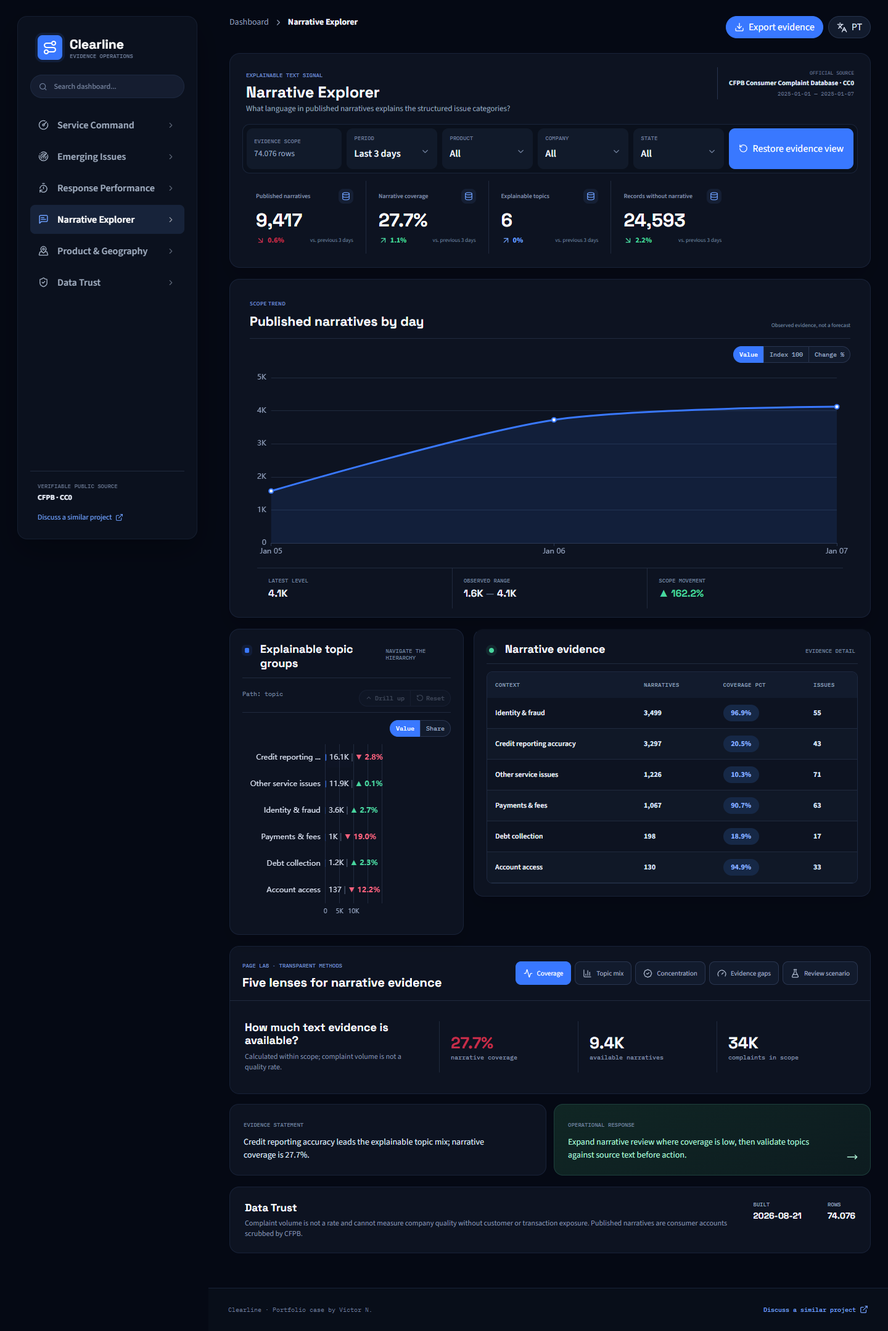
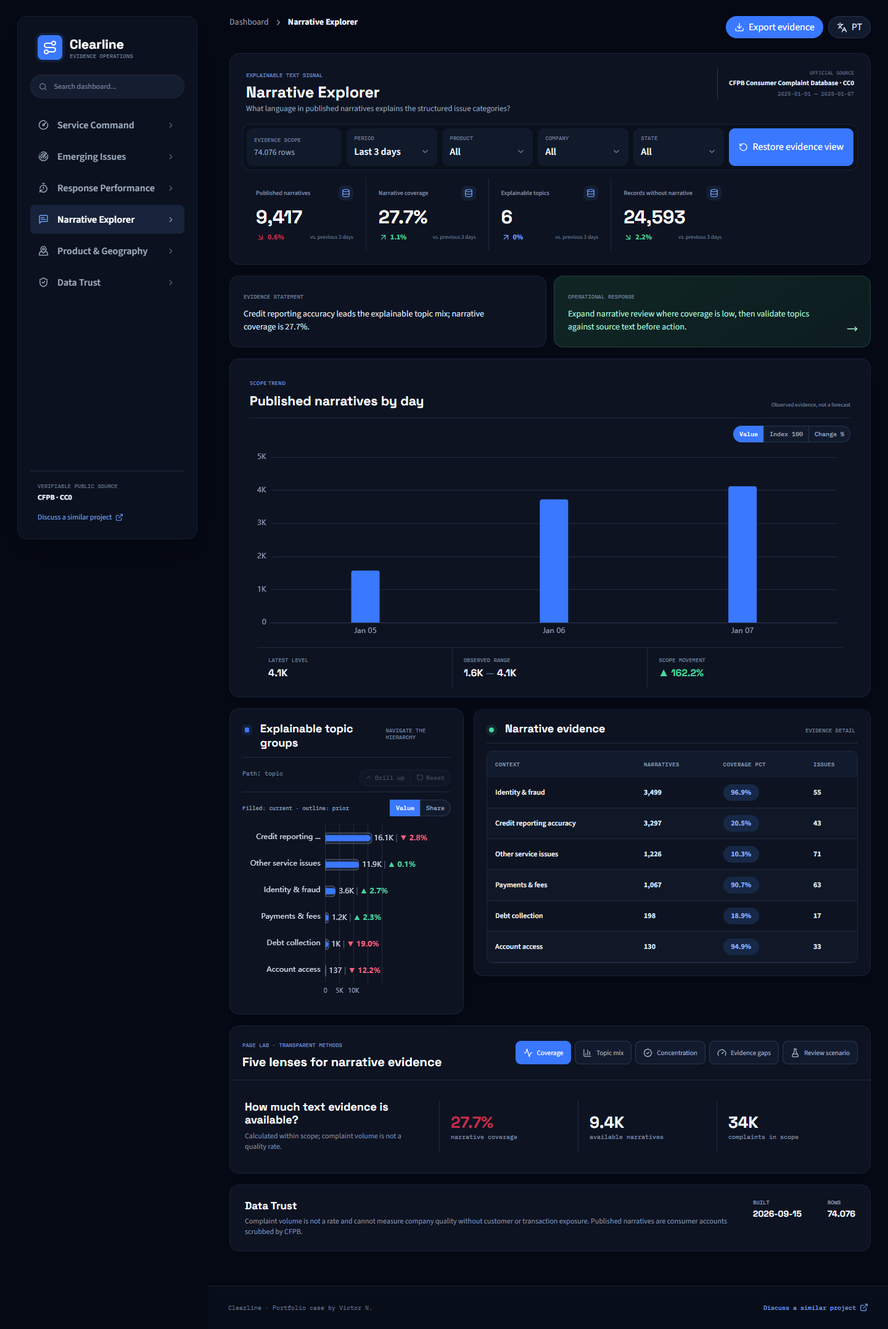
Improve triage storytelling and short-window visuals

diff --git a/src/components.tsx b/src/components.tsx
@@ -40,10 +40,11 @@ export function TrendChart({ data, lang, direction = 'neutral', valueFormat = 'n
   const minimum = rawValues.length ? Math.min(...rawValues) : 0
   const maximum = rawValues.length ? Math.max(...rawValues) : 0
   const movement = base ? (current - base) / Math.abs(base) : 0
+  const discrete = data.length <= 7
   const values = data.map((point, index) => mode === 'index' ? point.value / base * 100 : mode === 'change' ? (index ? (point.value - data[index - 1].value) / Math.abs(data[index - 1].value || 1) * 100 : 0) : point.value)
   const format = (value: number) => mode === 'value' ? (valueFormat === 'percent' ? `${value.toFixed(1)}%` : new Intl.NumberFormat(lang === 'pt' ? 'pt-BR' : 'en-US', { notation: 'compact', maximumFractionDigits: 1 }).format(value)) : `${value.toFixed(1)}${mode === 'change' ? '%' : ''}`
   const movementTone = direction === 'neutral' || movement === 0 ? 'neutral' : (direction === 'up' ? movement > 0 : movement < 0) ? 'positive' : 'negative'
-  const option = { animation: false, grid: { left: 12, right: 22, top: 24, bottom: 18, containLabel: true }, tooltip: { trigger: 'axis', backgroundColor:'#171f32',borderColor:'#2b3853',textStyle:{color:'#f7f9ff'},valueFormatter: format }, xAxis: { type: 'category', data: data.map(d => d.label), boundaryGap: false, axisLine: { lineStyle: { color: '#2b3853' } }, axisLabel: { color: '#91a0bc' } }, yAxis: { type: 'value', splitLine: { lineStyle: { color: '#202a3e' } }, axisLabel: { color: '#91a0bc', formatter: format } }, series: [{ type: 'line', data: values, smooth: .28, symbolSize: 7, lineStyle: { width: 3, color: '#3978ff' }, itemStyle: { color: '#3978ff', borderColor:'#0d1321', borderWidth:2 }, areaStyle: { color: 'rgba(57,120,255,.16)' } }] }
+  const option = { animation: false, grid: { left: 12, right: 22, top: 24, bottom: 18, containLabel: true }, tooltip: { trigger: 'axis', backgroundColor:'#171f32',borderColor:'#2b3853',textStyle:{color:'#f7f9ff'},valueFormatter: format }, xAxis: { type: 'category', data: data.map(d => d.label), boundaryGap: discrete, axisLine: { lineStyle: { color: '#2b3853' } }, axisLabel: { color: '#91a0bc' } }, yAxis: { type: 'value', splitLine: { lineStyle: { color: '#202a3e' } }, axisLabel: { color: '#91a0bc', formatter: format } }, series: [discrete?{type:'bar',data:values,barMaxWidth:46,itemStyle:{color:'#3978ff',borderRadius:[4,4,0,0]},emphasis:{disabled:true}}:{ type: 'line', data: values, smooth: .28, symbolSize: 7, lineStyle: { width: 3, color: '#3978ff' }, itemStyle: { color: '#3978ff', borderColor:'#0d1321', borderWidth:2 }, areaStyle: { color: 'rgba(57,120,255,.16)' } }] }
   const chartKey=`${valueFormat}-${data.map(point=>`${point.label}:${point.value}`).join('|')}`
   return <div className="chart-block"><div className="chart-modes" role="group" aria-label={lang === 'pt' ? 'Modo de comparação' : 'Comparison mode'}><button className={mode === 'value' ? 'active' : ''} onClick={() => setMode('value')}>{lang === 'pt' ? 'Valor' : 'Value'}</button><button className={mode === 'index' ? 'active' : ''} onClick={() => setMode('index')}>Index 100</button><button className={mode === 'change' ? 'active' : ''} onClick={() => setMode('change')}>{lang === 'pt' ? 'Variação %' : 'Change %'}</button></div><div className="chart-viewport"><ReactEChartsCore key={chartKey} echarts={echarts} option={option} notMerge={true} style={{height:300,width:'100%'}} /></div><div className="trend-readout"><article><span>{lang === 'pt' ? 'Nível mais recente' : 'Latest level'}</span><strong>{format(current)}</strong></article><article><span>{lang === 'pt' ? 'Amplitude observada' : 'Observed range'}</span><strong>{format(minimum)} <i>—</i> {format(maximum)}</strong></article><article><span>{lang === 'pt' ? 'Movimento no recorte' : 'Scope movement'}</span><strong className={movementTone}>{movement >= 0 ? '▲' : '▼'} {Math.abs(movement * 100).toFixed(1)}%</strong></article></div></div>
 }
@@ -55,13 +56,15 @@ export function BarChart({ data, lang, onSelect, direction = 'neutral' }: { data
   const previousTotal = data.reduce((sum, row) => sum + (row.previous??0), 0) || 1
   const compact = (value: number) => new Intl.NumberFormat(lang === 'pt' ? 'pt-BR' : 'en-US', { notation: 'compact', maximumFractionDigits: 1 }).format(value)
   const display = (value: number) => mode === 'share' ? `${value.toFixed(1)}%` : compact(value)
-  type LabelPoint={data:{value:number;delta:number;hasPrevious?:boolean;isNew?:boolean}}
-  const seriesData=sorted.map(row=>{const value=mode==='share'?row.value/total*100:row.value,hasPrevious=row.previous!==undefined,previous=mode==='share'?(row.previous??0)/previousTotal*100:(row.previous??0),delta=previous?100*(value-previous)/Math.abs(previous):0;return{value,delta,hasPrevious,isNew:hasPrevious&&previous===0}})
+  type LabelPoint={data:{value:number;previous:number;delta:number;hasPrevious?:boolean;isNew?:boolean}}
+  const seriesData=sorted.map(row=>{const value=mode==='share'?row.value/total*100:row.value,hasPrevious=row.previous!==undefined,previous=mode==='share'?(row.previous??0)/previousTotal*100:(row.previous??0),delta=previous?100*(value-previous)/Math.abs(previous):0;return{value,previous,delta,hasPrevious,isNew:hasPrevious&&previous===0}})
   const tone=(delta:number)=>direction==='neutral'||delta===0?'info':(direction==='up'?delta>0:delta<0)?'good':'bad'
   const comparison=(p:LabelPoint,rich=false)=>!p.data.hasPrevious?(rich?`{neutral|${lang==='pt'?'sem anterior':'no prior'}}`:(lang==='pt'?'sem anterior':'no prior')):p.data.isNew?(rich?`{new|${lang==='pt'?'nova':'new'}}`:(lang==='pt'?'nova':'new')):rich?`{${tone(p.data.delta)}|${p.data.delta>=0?'▲':'▼'} ${Math.abs(p.data.delta).toFixed(1)}%}`:`${p.data.delta>=0?'▲':'▼'} ${Math.abs(p.data.delta).toFixed(1)}%`,label=(p:LabelPoint)=>`{value|${display(p.data.value)}} {divider||} ${comparison(p,true)}`
-  const option = { animationDuration: 450, grid: { left: 12, right: 112, top: 12, bottom: 12, containLabel: true }, tooltip: { trigger: 'item', backgroundColor:'#171f32',borderColor:'#2b3853',textStyle:{color:'#f7f9ff'},formatter:(p:{name:string}&LabelPoint)=>`${p.name}<br/>${display(p.data.value)} | ${comparison(p)}` }, xAxis: { type: 'value', splitNumber: 3, max: mode === 'share' ? 100 : undefined, splitLine: { lineStyle: { color: '#202a3e' } }, axisLabel: { color: '#91a0bc', fontSize:10, hideOverlap:true, formatter: display } }, yAxis: { type: 'category', data: sorted.map(d => d.name), axisLine: { show: false }, axisTick: { show: false }, axisLabel: { color: '#d8dfef', width: 120, overflow: 'truncate' } }, series: [{ type: 'bar', data: seriesData, barWidth: 11, itemStyle: { color: '#3978ff', borderRadius: [0,5,5,0] }, emphasis:{disabled:true}, label: { show: true, position:'right',formatter:label,rich:{value:{color:'#d8dfef'},divider:{color:'#596780'},good:{color:'#48d69f',fontWeight:700},bad:{color:'#ff617d',fontWeight:700},info:{color:'#6da0ff',fontWeight:700},new:{color:'#6da0ff',fontWeight:700},neutral:{color:'#91a0bc'}} } }] }
+  const priorSeries={name:lang==='pt'?'Período anterior':'Prior period',type:'bar',data:seriesData.map(row=>row.hasPrevious?row.previous:null),barWidth:18,itemStyle:{color:'rgba(145,160,188,.10)',borderColor:'#596780',borderWidth:1,borderRadius:[0,5,5,0]},silent:true,tooltip:{show:false},z:1}
+  const currentSeries={name:lang==='pt'?'Período atual':'Current period',type:'bar',data:seriesData,barWidth:10,barGap:'-78%',itemStyle:{color:'#3978ff',borderRadius:[0,5,5,0]},emphasis:{disabled:true},z:2,label:{show:true,position:'right',formatter:label,rich:{value:{color:'#d8dfef'},divider:{color:'#596780'},good:{color:'#48d69f',fontWeight:700},bad:{color:'#ff617d',fontWeight:700},info:{color:'#6da0ff',fontWeight:700},new:{color:'#6da0ff',fontWeight:700},neutral:{color:'#91a0bc'}}}}
+  const option = { animationDuration: 450, grid: { left: 12, right: 112, top: 12, bottom: 12, containLabel: true }, tooltip: { trigger: 'item', backgroundColor:'#171f32',borderColor:'#2b3853',textStyle:{color:'#f7f9ff'},formatter:(p:{name:string}&LabelPoint)=>`${p.name}<br/>${display(p.data.value)} | ${comparison(p)}` }, xAxis: { type: 'value', splitNumber: 3, max: mode === 'share' ? 100 : undefined, splitLine: { lineStyle: { color: '#202a3e' } }, axisLabel: { color: '#91a0bc', fontSize:10, hideOverlap:true, formatter: display } }, yAxis: { type: 'category', data: sorted.map(d => d.name), axisLine: { show: false }, axisTick: { show: false }, axisLabel: { color: '#d8dfef', width: 120, overflow: 'truncate' } }, series:[priorSeries,currentSeries] }
   const events = onSelect ? { click: (params: { name: string }) => onSelect(params.name) } : undefined
-  return <div className="chart-block"><div className="chart-modes" role="group" aria-label={lang === 'pt' ? 'Modo de comparação' : 'Comparison mode'}><button className={mode === 'value' ? 'active' : ''} onClick={() => setMode('value')}>{lang === 'pt' ? 'Valor' : 'Value'}</button><button className={mode === 'share' ? 'active' : ''} onClick={() => setMode('share')}>{lang === 'pt' ? 'Participação' : 'Share'}</button></div><div className="chart-viewport"><ReactEChartsCore echarts={echarts} option={option} onEvents={events} notMerge={true} style={{height:300,width:'100%'}} /></div></div>
+  return <div className="chart-block"><div className="chart-modes" role="group" aria-label={lang === 'pt' ? 'Modo de comparação' : 'Comparison mode'}><small className="comparison-key">{lang==='pt'?'Cheio: atual · contorno: anterior':'Filled: current · outline: prior'}</small><button className={mode === 'value' ? 'active' : ''} onClick={() => setMode('value')}>{lang === 'pt' ? 'Valor' : 'Value'}</button><button className={mode === 'share' ? 'active' : ''} onClick={() => setMode('share')}>{lang === 'pt' ? 'Participação' : 'Share'}</button></div><div className="chart-viewport"><ReactEChartsCore echarts={echarts} option={option} onEvents={events} notMerge={true} style={{height:300,width:'100%'}} /></div></div>
 }
 
 export function DataGrid({ rows, pageId }: { rows: Record<string, string | number>[]; pageId: string }) {

diff --git a/src/innovation.tsx b/src/innovation.tsx
@@ -14,7 +14,7 @@ function DriverList({rows,lang,inverse=true}:{rows:ReturnType<typeof changeDrive
 
 type Lens=0|1|2|3|4
 const copy:Record<string,{title:[string,string];tabs:[string,string][];questions:[string,string][]}>={
- service:{title:['Five lenses for service triage','Cinco lentes para triagem de serviço'],tabs:[['Signal','Sinal'],['Volume drivers','Drivers'],['Timeliness','Prazo'],['Concentration','Concentração'],['SLA scenario','Cenário SLA']],questions:[['Is variation above an attention limit?','A variação supera o limite de atenção?'],['Which products moved intake?','Quais produtos moveram a entrada?'],['How many exceptions sit behind the rate?','Quantas exceções existem por trás da taxa?'],['Is volume concentrated?','O volume está concentrado?'],['What if untimely responses decline?','E se os atrasos diminuírem?']]},
+ service:{title:['Five lenses for service triage','Cinco lentes para triagem de serviço'],tabs:[['Daily profile','Perfil diário'],['Volume drivers','Drivers'],['Timeliness','Prazo'],['Concentration','Concentração'],['SLA scenario','Cenário SLA']],questions:[['How is intake distributed across the observed days?','Como a entrada se distribui nos dias observados?'],['Which products moved intake?','Quais produtos moveram a entrada?'],['How many exceptions sit behind the rate?','Quantas exceções existem por trás da taxa?'],['Is volume concentrated?','O volume está concentrado?'],['What if untimely responses decline?','E se os atrasos diminuírem?']]},
  issues:{title:['Five lenses for emerging issues','Cinco lentes para problemas emergentes'],tabs:[['Momentum','Momento'],['Issue drivers','Drivers'],['Persistence','Persistência'],['Concentration','Concentração'],['Triage scenario','Cenário']],questions:[['What is gaining operational relevance?','O que ganha relevância operacional?'],['Which issues changed most?','Quais problemas mais mudaram?'],['Is issue breadth stable?','A amplitude de problemas é estável?'],['Is attention concentrated?','A atenção está concentrada?'],['What if the leading issue declines?','E se o principal problema diminuir?']]},
  response:{title:['Five lenses for response performance','Cinco lentes para desempenho de resposta'],tabs:[['Timeliness','Prazo'],['Exception burden','Exceções'],['Company spread','Empresas'],['Rate stability','Estabilidade'],['SLA scenario','Cenário SLA']],questions:[['How timely is the operation?','Qual é o nível de resposta no prazo?'],['How many exceptions remain?','Quantas exceções permanecem?'],['How broad is the operating scope?','Qual é a abrangência operacional?'],['Is the timely rate stable?','A taxa no prazo é estável?'],['What if untimely responses decline?','E se reduzirmos atrasos?']]},
  narratives:{title:['Five lenses for narrative evidence','Cinco lentes para evidência narrativa'],tabs:[['Coverage','Cobertura'],['Topic mix','Mix de temas'],['Concentration','Concentração'],['Evidence gaps','Lacunas'],['Review scenario','Cenário de revisão']],questions:[['How much text evidence is available?','Quanto texto está disponível?'],['Which topics dominate narratives?','Quais temas dominam os relatos?'],['Does interpretation rely on few topics?','A interpretação depende de poucos temas?'],['How much evidence is missing?','Quanta evidência está ausente?'],['What if review coverage expands?','E se ampliarmos a revisão?']]},
@@ -28,8 +28,8 @@ function EvidenceLab({pageId,values,previous,trend,breakdown,detail,lang}:{pageI
  const icons=[Activity,BarChart3,BadgeCheck,Gauge,pageId==='trust'?BookOpenCheck:FlaskConical]
  let content:ReactNode
  if(pageId==='service'){
-  const mean=stats.mean,limit=mean+2*(stats.cv*mean),anomalies=trend.filter(row=>row.value>limit).length,avoided=late*scenario/100
-  const views=[<><Stat value={String(anomalies)} tone={anomalies?'negative':undefined}>{lang==='pt'?'dias acima de média + 2 DP':'days above mean + 2 SD'}</Stat><Stat value={compact(mean,lang)}>{lang==='pt'?'média diária':'daily mean'}</Stat><Stat value={compact(limit,lang)}>{lang==='pt'?'limite descritivo':'descriptive limit'}</Stat></>,<DriverList rows={drivers} lang={lang}/>,<><Stat value={pct(timely)} tone={timely>=.95?'positive':'negative'}>{lang==='pt'?'respostas no prazo':'timely responses'}</Stat><Stat value={compact(late,lang)} tone={late?'negative':undefined}>{lang==='pt'?'fora do prazo estimadas':'estimated untimely'}</Stat><Stat value={compact(values.companies||0,lang)}>{lang==='pt'?'empresas no recorte':'companies in scope'}</Stat></>,<><Stat value={pct(conc.top3Share)}>Top 3</Stat><Stat value={Math.round(conc.hhi).toLocaleString(lang==='pt'?'pt-BR':'en-US')}>HHI</Stat><Stat value={conc.leader?.name??'—'}>{lang==='pt'?'produto líder':'leading product'}</Stat></>,<><label><span>{lang==='pt'?'Redução de atrasos':'Untimely reduction'} <b>{scenario}%</b></span><input type="range" min="5" max="60" value={scenario} onChange={e=>setScenario(Number(e.target.value))}/></label><Stat value={compact(avoided,lang)}>{lang==='pt'?'atrasos potencialmente evitados':'potential exceptions avoided'}</Stat><Stat value={compact(late-avoided,lang)}>{lang==='pt'?'atrasos remanescentes':'remaining exceptions'}</Stat></>]
+  const mean=stats.mean,peak=[...trend].sort((a,b)=>b.value-a.value)[0],low=[...trend].sort((a,b)=>a.value-b.value)[0],avoided=late*scenario/100
+  const views=[<><Stat value={peak?.label??'—'}>{lang==='pt'?'dia de maior entrada':'highest-intake day'}</Stat><Stat value={compact(peak?.value??0,lang)}>{lang==='pt'?'maior volume diário':'highest daily volume'}</Stat><Stat value={`${compact(low?.value??0,lang)} — ${compact(peak?.value??0,lang)}`}>{lang==='pt'?'amplitude observada':'observed range'}</Stat><Stat value={compact(mean,lang)}>{lang==='pt'?'média descritiva':'descriptive mean'}</Stat></>,<DriverList rows={drivers} lang={lang}/>,<><Stat value={pct(timely)} tone={timely>=.95?'positive':'negative'}>{lang==='pt'?'respostas no prazo':'timely responses'}</Stat><Stat value={compact(late,lang)} tone={late?'negative':undefined}>{lang==='pt'?'fora do prazo estimadas':'estimated untimely'}</Stat><Stat value={compact(values.companies||0,lang)}>{lang==='pt'?'empresas no recorte':'companies in scope'}</Stat></>,<><Stat value={pct(conc.top3Share)}>Top 3</Stat><Stat value={Math.round(conc.hhi).toLocaleString(lang==='pt'?'pt-BR':'en-US')}>HHI</Stat><Stat value={conc.leader?.name??'—'}>{lang==='pt'?'produto líder':'leading product'}</Stat></>,<><label><span>{lang==='pt'?'Redução de atrasos':'Untimely reduction'} <b>{scenario}%</b></span><input type="range" min="5" max="60" value={scenario} onChange={e=>setScenario(Number(e.target.value))}/></label><Stat value={compact(avoided,lang)}>{lang==='pt'?'atrasos potencialmente evitados':'potential exceptions avoided'}</Stat><Stat value={compact(late-avoided,lang)}>{lang==='pt'?'atrasos remanescentes':'remaining exceptions'}</Stat></>]
   content=views[lens]
  }else if(pageId==='issues'){
   const reduced=(conc.leader?.value??0)*scenario/100

diff --git a/src/App.tsx b/src/App.tsx
@@ -24,7 +24,7 @@ export default function App() {
   const trend = mart?.trend ?? []
   const breakdown=mart?.breakdown??[],detail=mart?.detail??[]
   const findingByPage:Record<string,{en:string;pt:string}> = mart ? {
-    service:{en:`${mart.context.topDriver} represents ${(mart.context.topShare*100).toFixed(1)}% of scoped intake; ${mart.context.anomalies} days exceed the attention limit.`,pt:`${mart.context.topDriver} representa ${(mart.context.topShare*100).toFixed(1)}% da entrada; ${mart.context.anomalies} dias excedem o limite de atenção.`},
+    service:{en:`${mart.context.topDriver} represents ${(mart.context.topShare*100).toFixed(1)}% of scoped intake; ${Math.round(mart.current.untimely??0).toLocaleString()} responses are outside the timely flag.`,pt:`${mart.context.topDriver} representa ${(mart.context.topShare*100).toFixed(1)}% da entrada; ${Math.round(mart.current.untimely??0).toLocaleString('pt-BR')} respostas estão fora do prazo.`},
     issues:{en:`${mart.context.topDriver} is the leading issue group at ${(mart.context.topShare*100).toFixed(1)}% of scoped issue volume.`,pt:`${mart.context.topDriver} lidera os problemas com ${(mart.context.topShare*100).toFixed(1)}% do volume do recorte.`},
     response:{en:`${mart.context.topDriver} is the leading response outcome; scoped timeliness is ${((mart.current.timely??0)*100).toFixed(1)}%.`,pt:`${mart.context.topDriver} é o principal resultado de resposta; o prazo no recorte é ${((mart.current.timely??0)*100).toFixed(1)}%.`},
     narratives:{en:`${mart.context.topDriver} leads the explainable topic mix; narrative coverage is ${((mart.current.narratives??0)*100).toFixed(1)}%.`,pt:`${mart.context.topDriver} lidera o mix de tópicos; a cobertura de relatos é ${((mart.current.narratives??0)*100).toFixed(1)}%.`},
@@ -33,7 +33,7 @@ export default function App() {
   } : {}
   const finding=mart?(findingByPage[page.id]?.[lang]??page.finding[lang]):page.finding[lang]
   const actionByPage:Record<string,{en:string;pt:string}>={
-    service:{en:'Investigate abnormal intake together with timeliness and product context; do not interpret raw volume as quality.',pt:'Investigue entradas anormais com prazo e contexto de produto; não interprete volume bruto como qualidade.'},
+    service:{en:'Review recent intake changes together with timeliness and product context; do not interpret raw volume as quality.',pt:'Revise mudanças recentes nas entradas junto com prazo e contexto de produto; não interprete volume bruto como qualidade.'},
     issues:{en:'Assign the leading issue changes for review and verify persistence before escalating root-cause work.',pt:'Atribua as principais mudanças para revisão e confirme persistência antes de escalar causa raiz.'},
     response:{en:'Prioritize untimely exceptions and compare companies only within the same product, period and sample threshold.',pt:'Priorize exceções fora do prazo e compare empresas apenas no mesmo produto, período e corte de amostra.'},
     narratives:{en:'Expand narrative review where coverage is low, then validate topics against source text before action.',pt:'Amplie a revisão onde a cobertura é baixa e valide os tópicos contra o texto antes de agir.'},
@@ -58,10 +58,10 @@ export default function App() {
       {queryState==='loading'&&<div className="loading" role="status">{lang==='pt'?'Calculando o recorte selecionado...':'Calculating selected scope...'}</div>}
       {queryState==='error'&&<div className="query-error" role="alert">{lang==='pt'?'Não foi possível recalcular o recorte.':'The selected scope could not be recalculated.'}</div>}
       {queryState==='ready'&&mart&&<>
+      <section className="decision-strip executive-decision"><DecisionNote title={t.finding}>{finding}</DecisionNote><DecisionNote title={t.action} action>{action}</DecisionNote></section>
       <section className="situation-board"><article className="signal-stage"><div className="stage-head"><div><span>{lang==='pt'?'TENDÊNCIA DO RECORTE':'SCOPE TREND'}</span><h2>{page.trendTitle[lang]}</h2></div><small>{lang==='pt'?'Evidência observada, não previsão':'Observed evidence, not a forecast'}</small></div><TrendChart data={trend} lang={lang} direction={trendDirection[page.id]} valueFormat={page.id==='response'||page.id==='trust'?'percent':'number'} /></article></section>
       <section className="evidence-workbench"><article className="panel breakdown-panel"><div className="panel-title"><h2>{page.breakdownTitle[lang]}</h2><span>{lang==='pt'?'Navegue pela hierarquia':'Navigate the hierarchy'}</span></div><div className="drillbar"><span>{lang==='pt'?'Caminho':'Path'}: <b>{mart?.context.dimension??'product'}</b>{drillPath.map(item=><i key={`${item.dimension}-${item.value}`}> / {item.value}</i>)}</span><div><button disabled={!drillPath.length} onClick={()=>setDrillPath(path=>path.slice(0,-1))}><ChevronUp/>{lang==='pt'?'Voltar nível':'Drill up'}</button><button disabled={!drillPath.length} onClick={()=>setDrillPath([])}><RotateCcw/>{lang==='pt'?'Início':'Reset'}</button></div></div><BarChart data={breakdown} lang={lang} onSelect={drill} direction={breakdownDirection[page.id]}/></article><section className="panel detail"><div className="panel-title"><h2>{page.detailTitle[lang]}</h2><span>{t.details}</span></div><DataGrid rows={detail} pageId={page.id}/></section></section>
       <PageInsight pageId={page.id} values={mart.current} previous={comparisonAvailable?mart.previous:mart.current} trend={trend} breakdown={breakdown} detail={detail} lang={lang}/>
-      <section className="decision-strip executive-decision"><DecisionNote title={t.finding}>{finding}</DecisionNote><DecisionNote title={t.action} action>{action}</DecisionNote></section>
       <section className="trust"><div><h2>{t.trust}</h2><p>{data.meta.limitations[lang]}</p>{page.id === 'trust' && <MartVerifier file="mart_response_performance.parquet" lang={lang}/>}</div><div><span>Built</span><b>{data.meta.builtAt}</b></div><div><span>Rows</span><b>{data.meta.rows.toLocaleString()}</b></div></section>
       </>}
     </main>

diff --git a/src/queryMart.ts b/src/queryMart.ts
@@ -1,7 +1,7 @@
 import type { BreakdownRow,SeriesPoint } from './types'
 export type FilterState={channel:string;device:string;country:string;period:'1'|'3'|'all'}
 export type DrillItem={dimension:'product'|'company'|'state'|'issue'|'topic'|'company_response';value:string}
-export type MartResult={current:Record<string,number>;previous:Record<string,number>;trend:SeriesPoint[];breakdown:BreakdownRow[];detail:Record<string,string|number>[];context:{topDriver:string;topShare:number;anomalies:number;dimension:string;canDrill:boolean;comparisonAvailable:boolean;currentStart:string;currentEnd:string}}
+export type MartResult={current:Record<string,number>;previous:Record<string,number>;trend:SeriesPoint[];breakdown:BreakdownRow[];detail:Record<string,string|number>[];context:{topDriver:string;topShare:number;dimension:string;canDrill:boolean;comparisonAvailable:boolean;currentStart:string;currentEnd:string}}
 let connectionPromise:Promise<import('@duckdb/duckdb-wasm').AsyncDuckDBConnection>|undefined
 const literal=(value:string)=>`'${value.replaceAll("'","''")}'`
 async function connection(){if(!connectionPromise)connectionPromise=(async()=>{const d=await import('@duckdb/duckdb-wasm'),b=await d.selectBundle(d.getJsDelivrBundles()),workerUrl=URL.createObjectURL(new Blob([`importScripts("${b.mainWorker!}");`],{type:'text/javascript'})),db=new d.AsyncDuckDB(new d.ConsoleLogger(),new Worker(workerUrl));await db.instantiate(b.mainModule,b.pthreadWorker);await db.registerFileURL('complaints.parquet',new URL('./data/mart_complaints.parquet',window.location.href).href,d.DuckDBDataProtocol.HTTP,false);return db.connect()})();return connectionPromise}
@@ -29,6 +29,6 @@ async function runQuery(filters:FilterState,pageId:string,drillPath:DrillItem[])
   context:`select coalesce(${dimension},'Unknown') context,count(*)::double complaints,count(distinct company)::double companies,count(distinct product)::double products,round(100*avg(timely),1)::double timely_pct from scoped group by 1 order by complaints desc limit 25`
  }
  const detailTable=pageId==='trust'?await con.query(`${range},scoped as(select b.* from base b,ranges where received_date between current_start and current_end) select 'Unique complaint IDs' check_name,case when count(*)=count(distinct complaint_id) then 'Passed' else 'Failed' end status,count(*)::varchar observed from scoped union all select 'Critical fields complete',case when count(*) filter(where product is null or company is null or received_date is null)=0 then 'Passed' else 'Review' end,(count(*) filter(where product is null or company is null or received_date is null))::varchar from scoped union all select 'Valid response flag',case when count(*) filter(where timely not in (0,1))=0 then 'Passed' else 'Failed' end,(count(*) filter(where timely not in (0,1)))::varchar from scoped`) : await con.query(`${range},scoped as(select b.* from base b,ranges where received_date between current_start and current_end) ${detailSql[pageId]??detailSql.service}`)
- const trend=trendTable.toArray().map(r=>({label:String(r.period_label),value:Number(r.metric_value)})),mean=trend.reduce((s,r)=>s+r.value,0)/(trend.length||1),sd=Math.sqrt(trend.reduce((s,r)=>s+(r.value-mean)**2,0)/(trend.length||1)),breakdown=records(breakdownTable).map(r=>({name:String(r.driver_name??'Unknown'),value:Number(r.driver_value??0),previous:comparisonAvailable?Number(r.previous_value??0):undefined})),total=pageId==='trust'?(current.rows||0):(current.complaints||0)
- return{current,previous,trend,breakdown,detail:records(detailTable),context:{topDriver:breakdown[0]?.name??'N/A',topShare:total?breakdown[0].value/total:0,anomalies:trend.filter(r=>r.value>mean+2*sd).length,dimension,canDrill:drillPath.length<hierarchy.length-1,comparisonAvailable,currentStart:String(boundsRow.current_start??''),currentEnd:String(boundsRow.current_end??'')}}
+ const trend=trendTable.toArray().map(r=>({label:String(r.period_label),value:Number(r.metric_value)})),breakdown=records(breakdownTable).map(r=>({name:String(r.driver_name??'Unknown'),value:Number(r.driver_value??0),previous:comparisonAvailable?Number(r.previous_value??0):undefined})),total=pageId==='trust'?(current.rows||0):(current.complaints||0)
+ return{current,previous,trend,breakdown,detail:records(detailTable),context:{topDriver:breakdown[0]?.name??'N/A',topShare:total?breakdown[0].value/total:0,dimension,canDrill:drillPath.length<hierarchy.length-1,comparisonAvailable,currentStart:String(boundsRow.current_start??''),currentEnd:String(boundsRow.current_end??'')}}
 }

diff --git a/src/styles.css b/src/styles.css
@@ -102,3 +102,5 @@ main{margin-left:344px;padding:26px 28px 56px}.workspace-bar{height:48px;margin-
 @media(max-width:1280px){.report-summary .metrics{grid-template-columns:repeat(3,1fr)}.report-summary .metric-card:nth-child(3){border-right:0}.report-summary .metric-card:nth-child(n+4){border-top:1px solid #202a3e}.report-summary .filterbar{grid-template-columns:repeat(3,1fr)}.report-summary .filter-heading{grid-column:span 1}.report-summary .reset{min-height:44px}}
 @media(max-width:1080px){.topbar{width:auto;padding:0 18px}.sidebar-search,.sidebar-foot{display:none}.topbar nav button,.topbar nav button.active{grid-template-columns:20px minmax(0,1fr);min-width:180px;max-width:180px}.topbar nav button>svg:last-child{display:none}main{margin-left:0}.workspace-bar{margin-top:10px}}
 @media(max-width:720px){main{padding:18px 14px 44px}.workspace-bar{height:auto;align-items:flex-start;overflow:hidden}.breadcrumb{display:none}.workspace-bar>div:last-child{width:auto;min-width:0;margin-left:auto;justify-content:flex-end}.workspace-bar .export-view{width:40px;padding:0;justify-content:center;font-size:0}.workspace-bar .language{flex:0 0 auto}.report-summary-head{min-height:0;padding:20px;display:block}.report-meta{margin-top:16px;padding:12px 0 0;border-left:0;border-top:1px solid #293550;text-align:left}.report-summary .filterbar{margin:0 10px 4px;grid-template-columns:1fr}.report-summary .filter-heading{grid-column:auto}.report-summary .metrics{padding:8px 12px 14px;grid-template-columns:1fr}.report-summary .metric-card,.report-summary .metric-card:first-child{min-height:104px;border-right:0;border-bottom:1px solid #202a3e}.report-summary .metric-card:last-child{border-bottom:0}.signal-stage{min-height:0;padding:20px 14px 12px}.signal-stage .chart-viewport{min-height:300px}.signal-stage .chart-viewport>div{height:300px!important}}
+.comparison-key{align-self:center;margin-right:auto;color:#91a0bc;font:500 9px 'IBM Plex Mono';white-space:nowrap}
+.chart-viewport{max-width:100%}.chart-viewport>div,.chart-viewport canvas{max-width:100%!important}

diff --git a/tests/e2e/app.spec.ts b/tests/e2e/app.spec.ts
@@ -12,7 +12,7 @@ test('shows full history without inventing a prior window', async ({ page }) => 
 test('evidence lab exposes five distinct decision lenses', async ({ page }) => {
   test.setTimeout(120000)
   await page.goto('/')
-  await expect(page.getByText('Is variation above an attention limit?')).toBeVisible({ timeout: 90000 })
+  await expect(page.getByText('How is intake distributed across the observed days?')).toBeVisible({ timeout: 90000 })
 
   await page.getByRole('tab', { name: 'Volume drivers' }).click()
   await expect(page.getByText('Which products moved intake?')).toBeVisible()

diff --git a/README.md b/README.md
@@ -27,7 +27,7 @@ The application supports issue triage, timely-response monitoring, product conte
 
 Every page uses five complementary lenses instead of repeating the KPI cards. The command page covers:
 
-- **Signal** flags days above a descriptive mean-plus-two-standard-deviations attention limit.
+- **Daily profile** shows the highest observed day, range, and descriptive mean without claiming statistical control from seven days.
 - **Drivers** attributes absolute volume changes versus the previous window to products.
 - **Timeliness** translates a high response rate into the remaining estimated exception volume.
 - **Concentration** reports Top 3 share and HHI without pretending complaint volume is a quality rate.
@@ -65,7 +65,7 @@ Validate with `python -m pipeline validate`, `pytest`, `npm test`, `npm run buil
 
 A production version would combine CRM tickets, contact-center events, account exposure, SLA policies, and quality-review outcomes. [Discuss a similar project](mailto:victorn198@outlook.com).
 
-See [Portuguese documentation](README.pt-BR.md), [analytical readout](docs/ANALYSIS_READOUT.md), [data audit](docs/DATA_AUDIT.md), [complete dashboard guide](docs/DASHBOARD_GUIDE.md), [metric catalog](docs/METRIC_CATALOG.md), and [demo guide](docs/DEMO_GUIDE.md).
+See [Portuguese documentation](README.pt-BR.md), [analytical readout](docs/ANALYSIS_READOUT.md), [data audit](docs/DATA_AUDIT.md), [dashboard quality review](docs/DASHBOARD_QUALITY_REVIEW.md), [complete dashboard guide](docs/DASHBOARD_GUIDE.md), [metric catalog](docs/METRIC_CATALOG.md), and [demo guide](docs/DEMO_GUIDE.md).
 ## Design innovation
 
-The **Signal Detection Control Chart** separates expected variation from days above a statistical attention limit. It supports triage without presenting complaint volume as causality, prevalence, or a company quality score.
+The **Daily Intake Profile** combines discrete daily volume, product drivers, exception burden, concentration, and a bounded SLA scenario. It supports triage without presenting seven days of complaint volume as statistical control, causality, prevalence, or a company quality score.

diff --git a/docs/DASHBOARD_QUALITY_REVIEW.md b/docs/DASHBOARD_QUALITY_REVIEW.md
@@ -1,0 +1,25 @@
+# Dashboard quality review
+
+## Decision contract
+
+| Page | Primary question | Main evidence | Intended decision |
+| --- | --- | --- | --- |
+| Service Command | Which issues require operational attention? | Intake profile, timeliness and priority issue queue | Start bounded triage |
+| Emerging Issues | Which issue groups changed recently? | Product- and issue-level volume movement | Select topics for investigation |
+| Response Performance | Where is response timeliness weaker? | Timely response share in like-for-like context | Review process exceptions |
+| Narrative Explorer | What explainable themes appear in narratives? | Rule-based topic groups and coverage | Route qualitative review |
+| Product & Geography | Where is complaint composition concentrated? | Product, state and company context | Compare similar scopes, not overall quality |
+| Data Trust | What conclusions are permitted? | Coverage, grain, denominator and source limitations | Prevent rankings and causal claims |
+
+## Visual and analytical rules
+
+- KPI cards summarize the selected scope; the daily chart describes only the observed seven-day profile.
+- Three or seven observations are rendered as bars, not as a smoothed trend line.
+- Filled marks show the current period and outlined marks show the comparable prior period.
+- Favorable and unfavorable movement is colored according to response and coverage semantics.
+- The five-lens lab separates daily profile, volume drivers, timeliness, concentration and SLA scenario.
+- Complaint volume is not a complaint rate and cannot rank company quality without an exposure denominator.
+
+## Acceptance result
+
+The dashboard passed Python data tests, Vitest component tests, Playwright interaction checks, desktop capture at 1440x900 and mobile capture at 390x844. Seven days support descriptive triage only, not seasonality, statistical control or causal claims.

diff --git a/docs/DATA_AUDIT.md b/docs/DATA_AUDIT.md
@@ -20,7 +20,7 @@ Reviewed 2026-09-14 using `analysis/audit_clearline.py`.
 ## Findings
 
 - **High:** Generated dashboard metadata contained synthetic prior values derived from arbitrary multipliers. Runtime comparisons must come only from non-overlapping date windows. The generator now reserves static values for labels and metadata.
-- **High:** Seven days are insufficient for robust anomaly detection, seasonality, or trend claims. The mean-plus-two-standard-deviations lens is descriptive triage only.
+- **High:** Seven days are insufficient for robust anomaly detection, seasonality, or trend claims. The dashboard therefore uses a descriptive daily profile instead of a control limit.
 - **Medium:** The company-product mart excludes groups below 25 complaints. This is appropriate for minimum-sample comparisons but loses 6.38% of complaints and 11.45% of narratives.
 - **Medium:** Narrative coverage is 27.44%, and topic assignment is deterministic keyword matching. Topic shares are sensitive to text availability and must not be interpreted as prevalence or truth.
 - **Low:** The source contains 57 non-null `State` codes; user-facing language should call these jurisdictions rather than assume 57 US states.

diff --git a/docs/DASHBOARD_GUIDE.md b/docs/DASHBOARD_GUIDE.md
@@ -113,7 +113,6 @@ The navy and burgundy palette, evidence statements, restrained cards, and explic
 - Narratives are consumer accounts, not independently verified facts.
 - Topic rules support triage and do not establish causality or regulatory findings.
 - Monetary relief share does not measure loss, fairness, or resolution quality.
-# Signature interaction: Signal Detection Control Chart
+# Signature interaction: Daily Intake Profile
 
-Use points above the attention limit as investigation prompts, then compare response timeliness and like-for-like product, company, state, and period context. The control chart is a triage device, not proof that an organization caused a change.
-
+Use the daily bars to locate the highest observed intake, then compare response timeliness and like-for-like product, company, jurisdiction, and period context. Seven days support a descriptive profile and triage, not a statistical control chart or a causal claim.

diff --git a/README.pt-BR.md b/README.pt-BR.md
@@ -29,7 +29,7 @@ Rankear empresas por volume bruto de reclamações cria uma falsa nota de qualid
 
 Todas as páginas usam cinco lentes complementares, sem repetir os números dos cards. A página de comando cobre:
 
-- **Sinal** identifica dias acima de um limite descritivo de média mais dois desvios-padrão.
+- **Perfil diário** mostra maior dia observado, amplitude e média descritiva sem alegar controle estatístico com apenas sete dias.
 - **Drivers** atribui mudanças absolutas contra a janela anterior aos produtos.
 - **Prazo** traduz a taxa elevada no volume estimado de exceções remanescentes.
 - **Concentração** calcula participação do Top 3 e HHI sem tratar volume como nota de qualidade.
